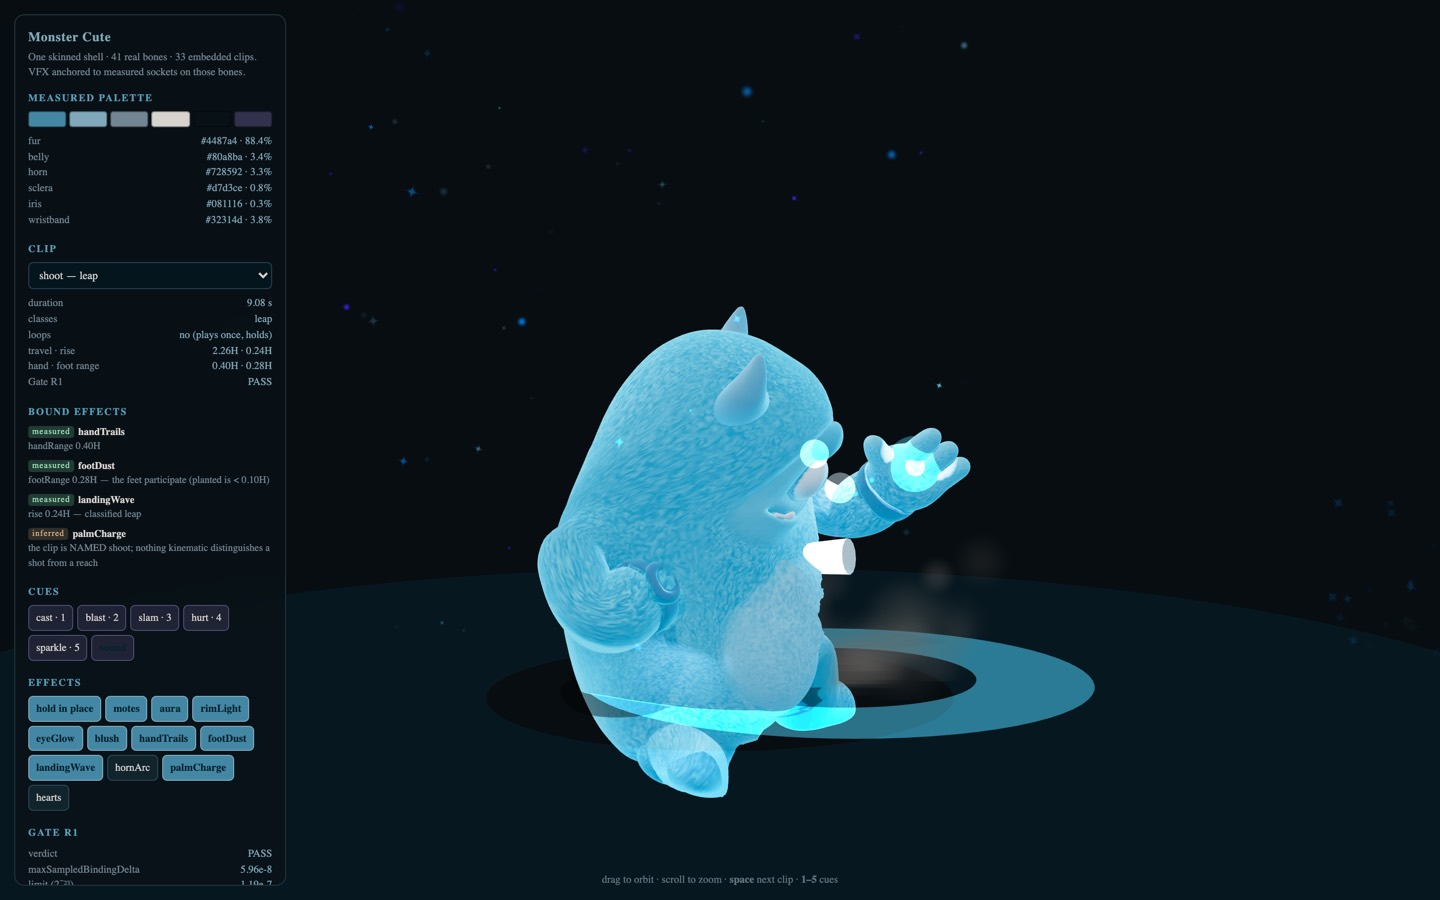
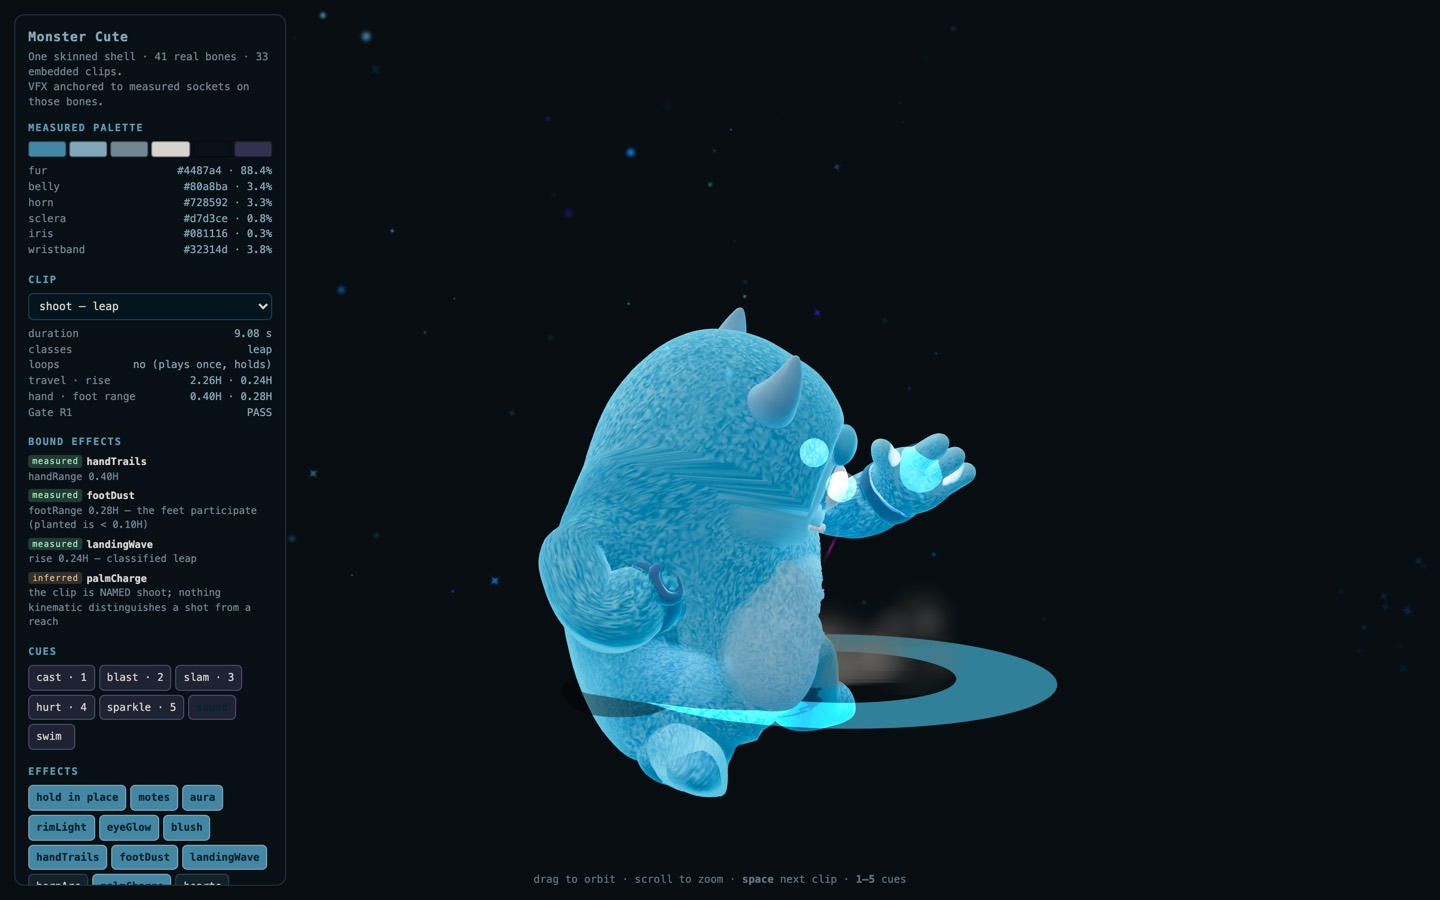
fix(monster-cute): the face was rigged to the shoulders
Reported as the face distorting during animation, and it was a real rigging defect: the generated
skin gives the clavicles about a fifth of the head's weight, peaking at 0.581 on an iris vertex.
Clavicles rotate on nearly every clip, so an arm swing smeared the eyes and melted the fangs — the
features that most need to stay rigid. Arm-chain influence is stripped from head-dominated vertices
and redistributed proportionally; spine and neck influence is untouched. G4, G5 and Gate R1 all hold
afterwards. The faint ground ring is removed as well.

diff --git a/src/demos/monster-cute/skinFix.ts b/src/demos/monster-cute/skinFix.ts
@@ -1,0 +1,145 @@
+/**
+ * Take the shoulders off the face.
+ *
+ * THE DEFECT. The generated rig weights the head to the CLAVICLES. Measured over the 24,373
+ * vertices whose dominant joint is `Head` or one of its descendants:
+ *
+ *   Head          0.783 of the total weight
+ *   L_Clavicle    0.106      <- the left shoulder
+ *   R_Clavicle    0.096      <- the right shoulder
+ *   Spine01       0.009
+ *   Spine02       0.005
+ *
+ * So roughly a fifth of the head rides the shoulders, and on individual vertices it is far worse:
+ * the largest share held by a non-dominant joint on an iris vertex is **0.581**. The clavicles
+ * rotate on nearly every clip, because that is what a clavicle is for — so every arm swing drags a
+ * fifth of the face with it. On flat fur that reads as a wobble and is easy to miss. On the eyes
+ * and the fangs it is obvious, because those are features that have to stay RIGID: an eyeball
+ * split between two joints that rotate apart stops being a solid object and becomes a blend of
+ * two, which is what a torn sclera and a sheared fang actually are.
+ *
+ * THE FIX, and its limits. This is skin conditioning, not measurement: it OVERWRITES weights that
+ * came out of the generator. That is worth stating plainly, and it is justified narrowly — a head
+ * does not follow a shoulder in any anatomy, so clavicle influence on head vertices is not a
+ * modelling choice being second-guessed, it is spill from an automatic rigger.
+ *
+ * What it removes is only the arm chain, and only from vertices the head already dominates. Spine
+ * and neck influence is left exactly as it was, because a head genuinely does follow those.
+ *
+ * The redistribution is proportional across the joints that remain, so the balance the generator
+ * chose between `Head`, `NeckTwist02` and `Spine01` survives — only the arm's share is handed back.
+ */
+import * as THREE from 'three';
+import type { EncodedRig } from './meshCodec';
+
+export interface SkinFixReport {
+  /** Vertices whose binding was rewritten. */
+  verticesChanged: number;
+  /** The largest single weight taken off one vertex. */
+  maxWeightMoved: number;
+  /** Total weight removed across the whole mesh, as a fraction of one vertex. */
+  totalWeightMoved: number;
+  jointsRemoved: string[];
+  /** Gate G4 after the rewrite: every vertex must still sum to 1. */
+  maxWeightErrorAfter: number;
+  /** Gate G5 after the rewrite. */
+  maxSkinIndexAfter: number;
+}
+
+export function conditionHeadSkin(mesh: THREE.SkinnedMesh, rig: EncodedRig): SkinFixReport {
+  const names = rig.bones.map((b) => b.name);
+  const indexOf = new Map(names.map((n, i) => [n, i]));
+
+  const descendsFrom = (name: string, ancestor: string): boolean => {
+    let i = indexOf.get(name);
+    while (i !== undefined && i >= 0) {
+      if (names[i] === ancestor) return true;
+      const parent: number = rig.bones[i].parent;
+      if (parent < 0) return false;
+      i = parent;
+    }
+    return false;
+  };
+
+  /** The head and anything hanging off it — the vertices this pass is allowed to touch. */
+  const headSet = new Set(names.filter((n) => n === 'Head' || descendsFrom(n, 'Head')));
+  /**
+   * The arm chains, clavicle included. The clavicle IS the joint at fault, so excluding it and
+   * removing only its children would leave the whole problem in place.
+   */
+  const armSet = new Set(names.filter((n) => descendsFrom(n, 'L_Clavicle') || descendsFrom(n, 'R_Clavicle')));
+
+  const skinIndex = mesh.geometry.getAttribute('skinIndex') as THREE.BufferAttribute;
+  const skinWeight = mesh.geometry.getAttribute('skinWeight') as THREE.BufferAttribute;
+  const count = skinIndex.count;
+
+  const removed = new Set<string>();
+  let verticesChanged = 0;
+  let maxWeightMoved = 0;
+  let totalWeightMoved = 0;
+
+  for (let v = 0; v < count; v += 1) {
+    // Which joint holds this vertex? Only faces are in scope.
+    let dominant = -1;
+    let dominantWeight = -1;
+    for (let k = 0; k < 4; k += 1) {
+      const w = skinWeight.getComponent(v, k);
+      if (w > dominantWeight) { dominantWeight = w; dominant = skinIndex.getComponent(v, k); }
+    }
+    if (dominant < 0 || !headSet.has(names[dominant])) continue;
+
+    let moved = 0;
+    let kept = 0;
+    for (let k = 0; k < 4; k += 1) {
+      const w = skinWeight.getComponent(v, k);
+      if (w <= 0) continue;
+      if (armSet.has(names[skinIndex.getComponent(v, k)])) { moved += w; removed.add(names[skinIndex.getComponent(v, k)]); }
+      else kept += w;
+    }
+    if (moved <= 0) continue;
+
+    if (kept <= 1e-6) {
+      // Nothing left to carry the vertex. Give it entirely to its dominant joint rather than
+      // leaving it unweighted, which would collapse it to the origin.
+      for (let k = 0; k < 4; k += 1) {
+        const isDominant = skinIndex.getComponent(v, k) === dominant && skinWeight.getComponent(v, k) === dominantWeight;
+        skinWeight.setComponent(v, k, isDominant ? 1 : 0);
+      }
+    } else {
+      // Proportional: the split the generator chose between the joints that stay is preserved.
+      const scale = 1 / kept;
+      for (let k = 0; k < 4; k += 1) {
+        const w = skinWeight.getComponent(v, k);
+        if (w <= 0) continue;
+        skinWeight.setComponent(v, k, armSet.has(names[skinIndex.getComponent(v, k)]) ? 0 : w * scale);
+      }
+    }
+
+    verticesChanged += 1;
+    totalWeightMoved += moved;
+    maxWeightMoved = Math.max(maxWeightMoved, moved);
+  }
+
+  skinWeight.needsUpdate = true;
+
+  // Re-run the two gates this pass could break, on the rewritten data rather than on the original.
+  let maxWeightErrorAfter = 0;
+  let maxSkinIndexAfter = 0;
+  for (let v = 0; v < count; v += 1) {
+    let sum = 0;
+    for (let k = 0; k < 4; k += 1) {
+      sum += skinWeight.getComponent(v, k);
+      maxSkinIndexAfter = Math.max(maxSkinIndexAfter, skinIndex.getComponent(v, k));
+    }
+    maxWeightErrorAfter = Math.max(maxWeightErrorAfter, Math.abs(1 - sum));
+  }
+
+  return {
+    verticesChanged,
+    maxWeightMoved: Number(maxWeightMoved.toFixed(4)),
+    totalWeightMoved: Number(totalWeightMoved.toFixed(2)),
+    jointsRemoved: [...removed].sort(),
+    maxWeightErrorAfter,
+    maxSkinIndexAfter,
+  };
+}

diff --git a/pipelines/monster-cute/facebind.ts b/pipelines/monster-cute/facebind.ts
@@ -1,0 +1,91 @@
+/**
+ * What drives the face?
+ *
+ * The eyes and fangs distort under animation while the rest of the head holds, which points at the
+ * weights rather than at the clips. A feature that must stay RIGID — an eyeball, a tooth — has to
+ * ride one joint. The moment it is split across two joints that rotate apart, it stops being a
+ * solid object and starts being a blend of two, which is exactly what a torn sclera and a sheared
+ * fang look like.
+ */
+import * as THREE from 'three';
+import { decodeModel } from '../../src/demos/monster-cute/meshCodec';
+import { SURFACE_MODEL, SURFACE_STREAM } from '../../src/demos/monster-cute/surfaceData.high';
+import { RIG } from '../../src/demos/monster-cute/rigData';
+
+const part = decodeModel(SURFACE_MODEL, SURFACE_STREAM)[0];
+const n = part.meta.vertexCount;
+const pos = part.position;
+const col = part.colour;
+const names = RIG.bones.map((b) => b.name);
+const si = (() => { const b = Buffer.from(RIG.skinIndex, 'base64'); const o = new Uint16Array(b.length / 2); Buffer.from(o.buffer).set(b); return o; })();
+const sw = (() => { const b = Buffer.from(RIG.skinWeight, 'base64'); const o = new Float32Array(b.length / 4); Buffer.from(o.buffer).set(b); return o; })();
+
+const lin2s = (c: number) => (c <= 0.0031308 ? c * 12.92 : 1.055 * c ** (1 / 2.4) - 0.055);
+const hsl = (v: number) => {
+  const r = lin2s(col[v * 3]), g = lin2s(col[v * 3 + 1]), b = lin2s(col[v * 3 + 2]);
+  const mx = Math.max(r, g, b), mn = Math.min(r, g, b), l = (mx + mn) / 2, d = mx - mn;
+  if (d === 0) return { s: 0, l };
+  return { s: l > 0.5 ? d / (2 - mx - mn) : d / (mx + mn), l };
+};
+
+const idx = new Map(names.map((nm, i) => [nm, i]));
+const descends = (name: string, ancestor: string): boolean => {
+  let i = idx.get(name);
+  while (i !== undefined && i >= 0) {
+    if (names[i] === ancestor) return true;
+    const p: number = RIG.bones[i].parent;
+    if (p < 0) return false;
+    i = p;
+  }
+  return false;
+};
+const HEAD_SET = new Set(names.filter((b) => descends(b, 'Head')));
+const boneOf = (v: number) => {
+  let best = 0, bw = -1;
+  for (let k = 0; k < 4; k += 1) { const w = sw[v * 4 + k]; if (w > bw) { bw = w; best = si[v * 4 + k]; } }
+  return names[best];
+};
+
+const all = Array.from({ length: n }, (_, v) => v);
+const eyeWhite = all.filter((v) => { const c = hsl(v); return c.l > 0.8 && c.s < 0.18 && HEAD_SET.has(boneOf(v)); });
+const iris = all.filter((v) => hsl(v).l < 0.22 && HEAD_SET.has(boneOf(v)));
+const headAll = all.filter((v) => HEAD_SET.has(boneOf(v)));
+
+function report(label: string, members: number[]): void {
+  const tally = new Map<string, { count: number; weight: number }>();
+  let splitVerts = 0;
+  let worstSecondary = 0;
+  const secondaryTally = new Map<string, number>();
+  for (const v of members) {
+    let dominant = 0;
+    for (let k = 0; k < 4; k += 1) dominant = Math.max(dominant, sw[v * 4 + k]);
+    if (dominant < 0.999) splitVerts += 1;
+    worstSecondary = Math.max(worstSecondary, 1 - dominant);
+    for (let k = 0; k < 4; k += 1) {
+      const w = sw[v * 4 + k];
+      if (w <= 0) continue;
+      const nm = names[si[v * 4 + k]];
+      const e = tally.get(nm) ?? { count: 0, weight: 0 };
+      e.count += 1; e.weight += w; tally.set(nm, e);
+      if (w < dominant && w > 0.001) secondaryTally.set(nm, (secondaryTally.get(nm) ?? 0) + 1);
+    }
+  }
+  console.log(`\n${label}  (${members.length} vertices)`);
+  console.log(`  vertices NOT rigid to one joint: ${splitVerts} (${((splitVerts / members.length) * 100).toFixed(1)}%)`);
+  console.log(`  largest share held by a non-dominant joint: ${worstSecondary.toFixed(3)}`);
+  console.log('  joints involved (share of total weight):');
+  const total = members.length;
+  for (const [nm, e] of [...tally.entries()].sort((a, b) => b[1].weight - a[1].weight).slice(0, 6)) {
+    console.log(`    ${nm.padEnd(18)} ${(e.weight / total).toFixed(3)}  on ${e.count} verts`);
+  }
+  if (secondaryTally.size) {
+    console.log('  joints appearing as a SECONDARY influence:');
+    for (const [nm, c] of [...secondaryTally.entries()].sort((a, b) => b[1] - a[1]).slice(0, 6)) {
+      console.log(`    ${nm.padEnd(18)} on ${c} verts`);
+    }
+  }
+}
+
+report('eye whites', eyeWhite);
+report('irises', iris);
+report('whole head', headAll);

diff --git a/src/demos/monster-cute/createMonsterCuteModel.ts b/src/demos/monster-cute/createMonsterCuteModel.ts
@@ -1,5 +1,6 @@
 import * as THREE from 'three';
 import { buildModel, buildModelProgressive, createStudioLights, preferredQuality, buildRiggedModel, type BuildOptions, type EncodedModel, type EncodedRig, type ProgressiveOptions, type Quality, type RiggedModel } from './meshCodec';
+import { conditionHeadSkin, type SkinFixReport } from './skinFix';
 
 /**
  * Monster Cute — a code-only Three.js model with 1 named parts and 192,082 triangles.
@@ -48,6 +49,12 @@ function loadLevel(quality: Quality): Promise<{ SURFACE_MODEL: EncodedModel; SUR
 
 let loaded: { quality: Quality; model: EncodedModel; stream: string } | null = null;
 let loadedRig: EncodedRig | null = null;
+let lastSkinFix: SkinFixReport | null = null;
+
+/** What the head-skin conditioning pass did on the last build, or null before one has run. */
+export function monsterCuteSkinFix(): SkinFixReport | null {
+  return lastSkinFix;
+}
 
 /**
  * Fetch and hold the skeleton, the skin weights and every clip.
@@ -156,6 +163,18 @@ export function createMonsterCuteRigged(options: MonsterCuteOptions = {}): Rigge
     ...options,
   });
   rigged.group.name = 'monster-cute';
+
+  /**
+   * Take the shoulders off the face before anything renders.
+   *
+   * The generated rig gives the clavicles about a fifth of the head's weight, so every arm swing
+   * drags the face with it — visible as a torn eye and a sheared fang. See `skinFix.ts` for the
+   * measurement and for what the pass is and is not allowed to touch.
+   */
+  // `?skinfix=off` skips it, so the defect and the repair can be compared in the same frame.
+  const skip = typeof window !== 'undefined'
+    && new URLSearchParams(window.location.search).get('skinfix') === 'off';
+  lastSkinFix = skip ? null : conditionHeadSkin(rigged.mesh, loadedRig);
   return rigged;
 }
 

diff --git a/src/demos/monster-cute/lighting.ts b/src/demos/monster-cute/lighting.ts
@@ -107,9 +107,13 @@ export function createMonsterCuteStageLights(): StageLights {
 /**
  * The floor.
  *
- * A shadow-only disc plus a faint additive ring in the fur's deep tone: enough to seat the figure
- * without introducing a surface that competes with it. The ring is what makes the ground read as
- * a stage rather than as nothing.
+ * A shadow-only disc, and nothing else. It seats the figure without introducing a surface that
+ * competes with it.
+ *
+ * There was a faint additive ring here as well, meant to make the floor read as a stage. It did
+ * not earn its place — with the rim light carrying the silhouette and the dust carrying the
+ * contact, the ring was one more circle on the ground saying nothing the shadow was not already
+ * saying.
  */
 export function createMonsterCuteGround(): THREE.Group {
   const group = new THREE.Group();
@@ -122,17 +126,6 @@ export function createMonsterCuteGround(): THREE.Group {
   shadow.rotation.x = -Math.PI / 2;
   shadow.receiveShadow = true;
   group.add(shadow);
-
-  const halo = new THREE.Mesh(
-    new THREE.RingGeometry(0.42 * H, 1.5 * H, 96),
-    new THREE.MeshBasicMaterial({
-      color: PALETTE.furDeep, transparent: true, opacity: 0.09,
-      blending: THREE.AdditiveBlending, depthWrite: false, side: THREE.DoubleSide,
-    }),
-  );
-  halo.rotation.x = -Math.PI / 2;
-  halo.position.y = 0.002;
-  group.add(halo);
 
   return group;
 }

diff --git a/pipelines/monster-cute/skinfix_check.ts b/pipelines/monster-cute/skinfix_check.ts
@@ -1,0 +1,11 @@
+/** Run the conditioning pass headlessly and report what it moved, plus the gates it could break. */
+import { buildRiggedModel } from '../../src/demos/monster-cute/meshCodec';
+import { SURFACE_MODEL, SURFACE_STREAM } from '../../src/demos/monster-cute/surfaceData.high';
+import { RIG } from '../../src/demos/monster-cute/rigData';
+import { conditionHeadSkin } from '../../src/demos/monster-cute/skinFix';
+
+const rigged = buildRiggedModel(SURFACE_MODEL, SURFACE_STREAM, RIG);
+const report = conditionHeadSkin(rigged.mesh, RIG);
+console.log(JSON.stringify(report, null, 2));
+console.log(`\nG4 |1 - sum(w)| = ${report.maxWeightErrorAfter.toExponential(2)} <= 2e-7 : ${report.maxWeightErrorAfter <= 2e-7 ? 'PASS' : 'FAIL'}`);
+console.log(`G5 maxSkinIndex = ${report.maxSkinIndexAfter} <= ${RIG.bones.length - 1} : ${report.maxSkinIndexAfter <= RIG.bones.length - 1 ? 'PASS' : 'FAIL'}`);
